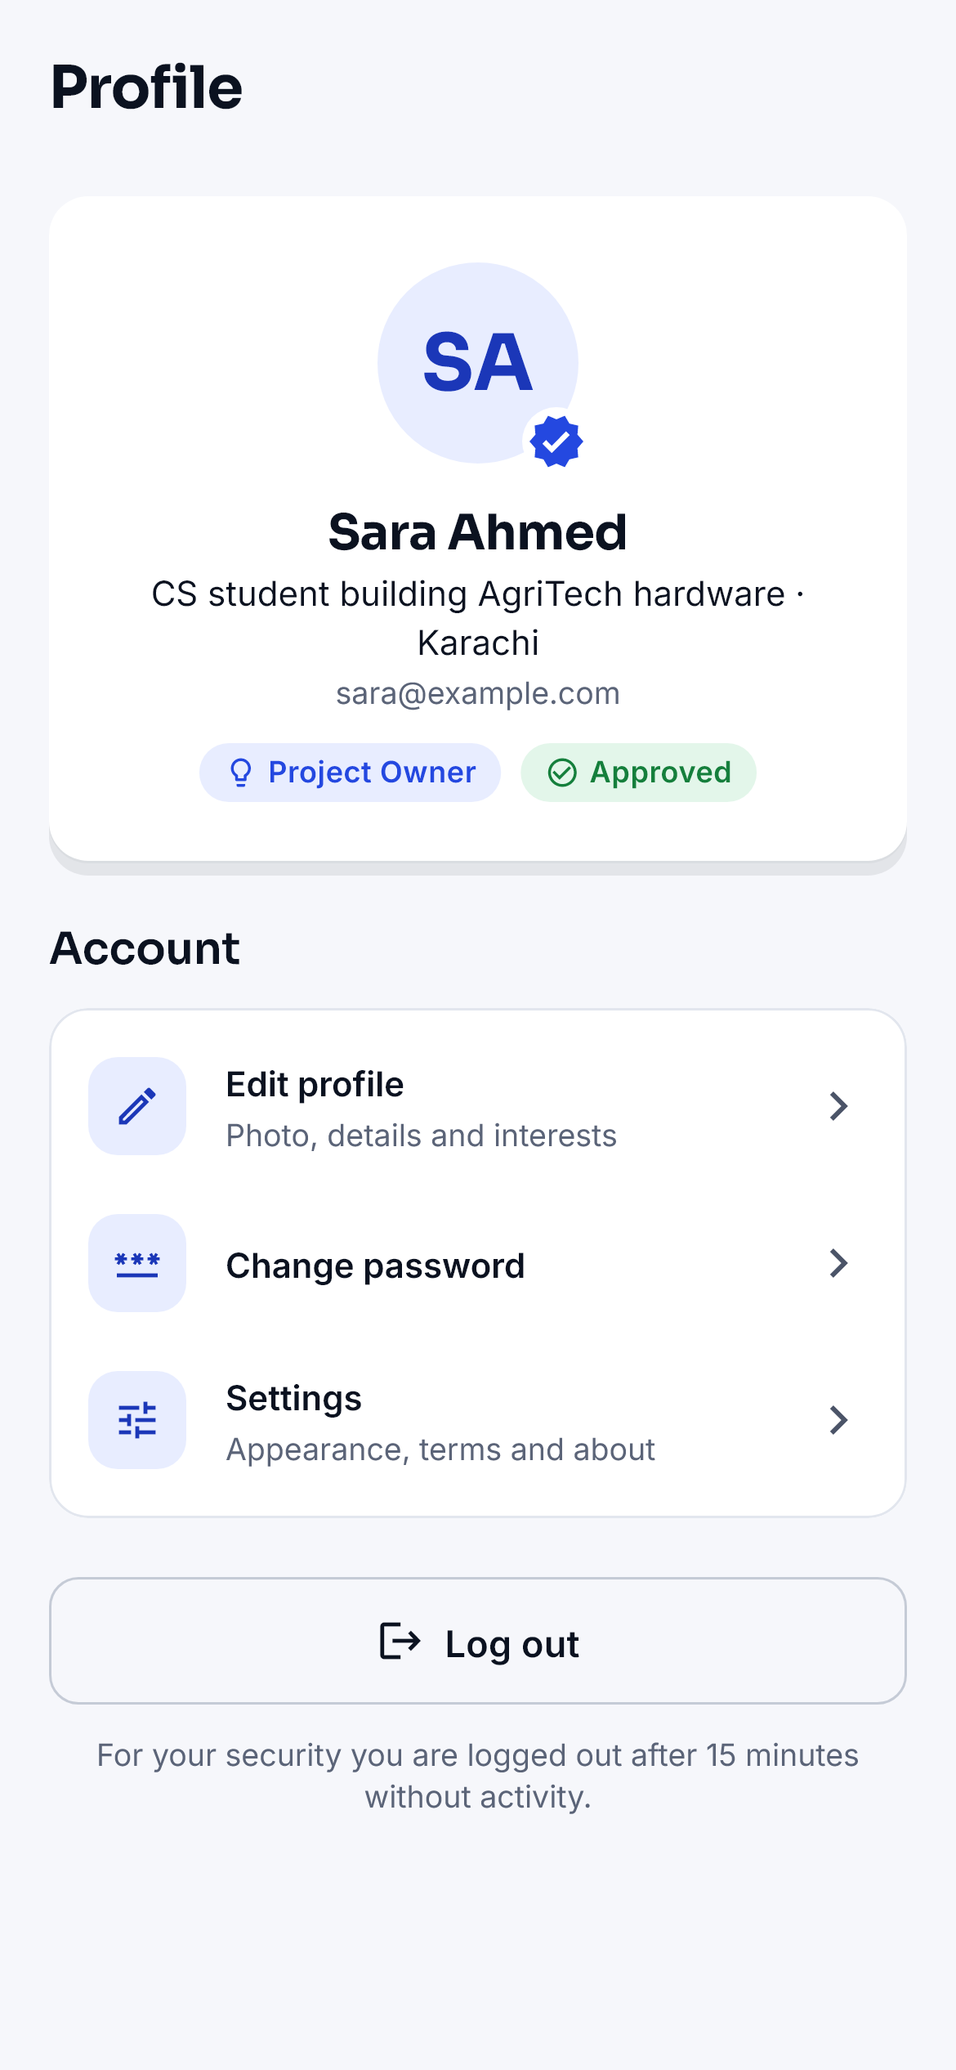
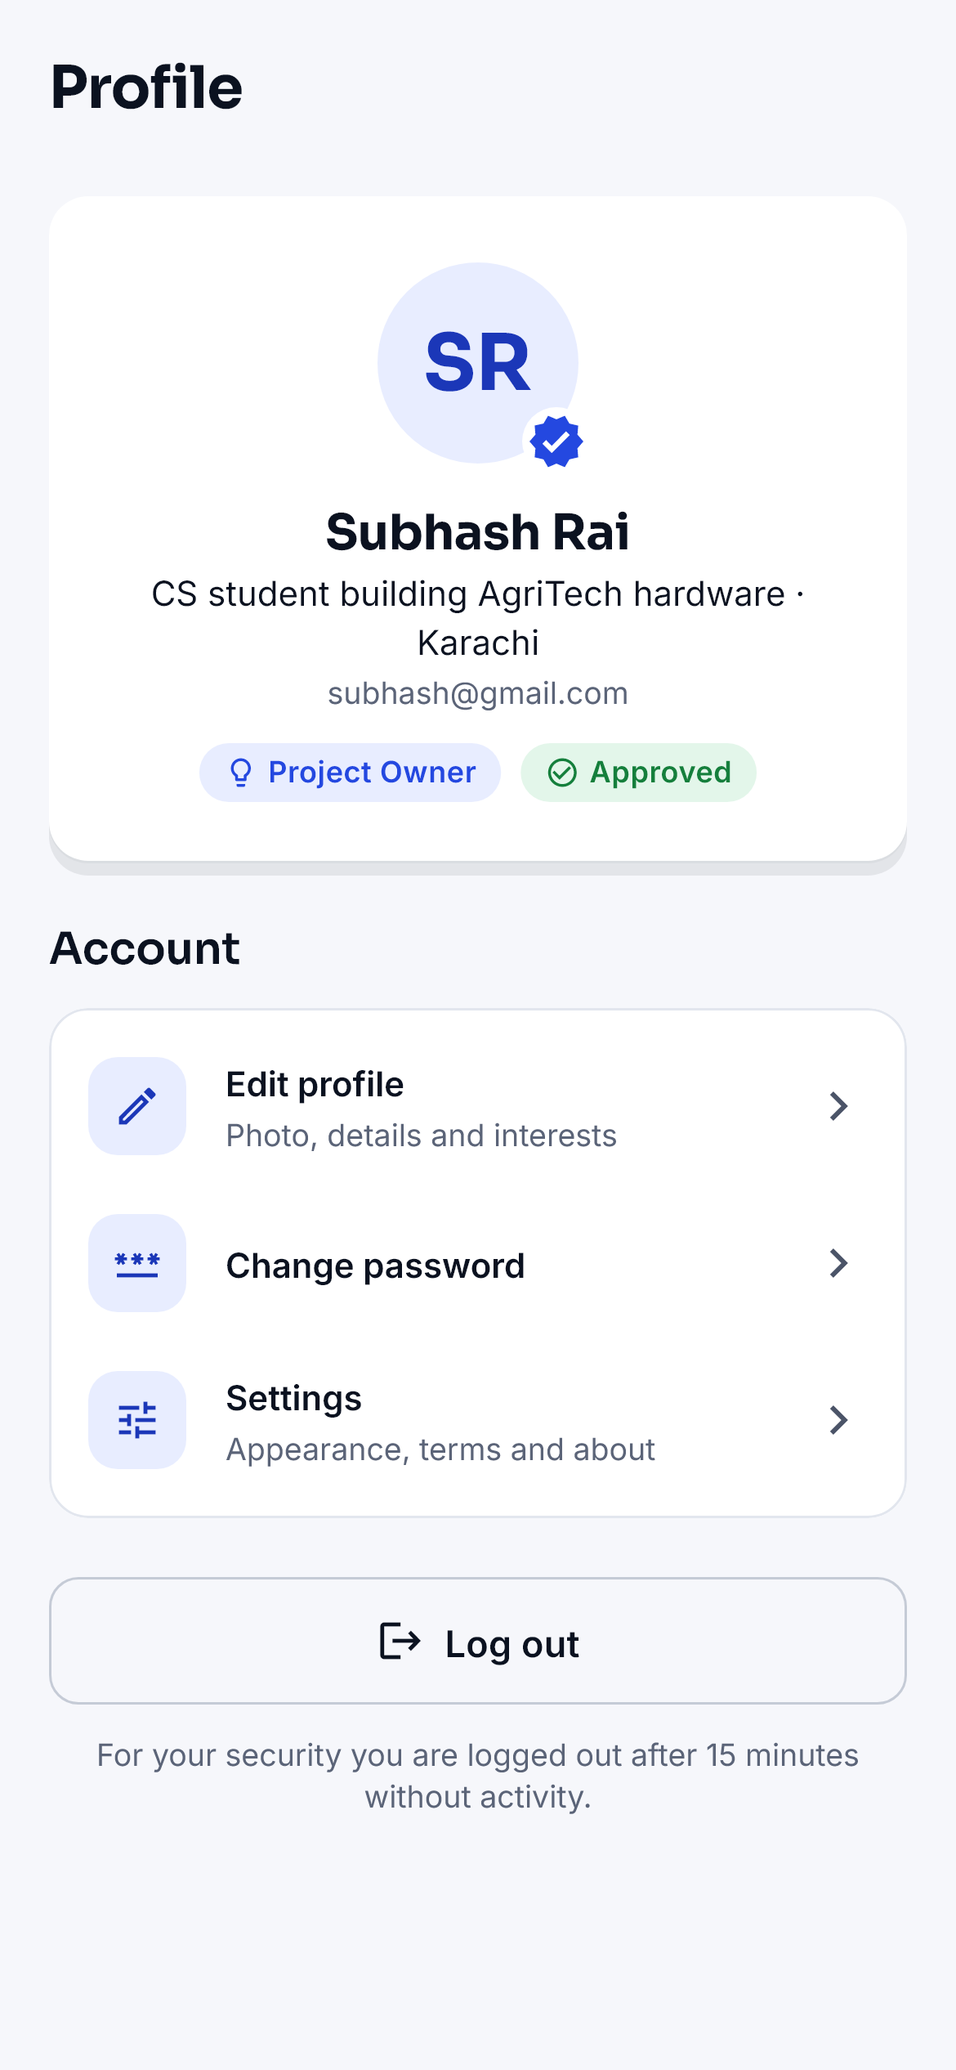
Screenshots with real details, admin portal screenshots
- Mobile screenshots and golden images use Subhash Rai / subhash@gmail.com instead of example data
- Onboarding picture shows a neutral "Your profile" instead of a made-up person
- Admin dashboard screenshots (login, overview, account and listing reviews with an item open,
  users, user detail, audit log, change password) in docs/screenshots/admin
- admin/tools/screenshots: a mock API in the backend's response shapes and a Chrome script,
  so the admin screenshots can be regenerated without touching the real database

Changed region(s): [[0.3385, 0.312, 0.6462, 0.3432], [0.3385, 0.2496, 0.6462, 0.2808], [0.4615, 0.156, 0.5538, 0.1872]]

diff --git a/admin/tools/screenshots/mock_api.js b/admin/tools/screenshots/mock_api.js
@@ -1,0 +1,145 @@
+// Mock of the Orwickle admin API (same response shapes as backend/src/modules/admin), for screenshots only.
+// node tools/screenshots/mock_api.js 4100
+const http = require('http');
+
+const port = Number(process.argv[2] || 4100);
+const day = (n, h = 10, m = 0) => new Date(Date.UTC(2026, 9, n, h - 5, m)).toISOString(); // Oct 2026, PKT
+
+const admin = { id: 'a0000000-0000-4000-8000-000000000001', email: 'subhash@gmail.com', role: 'admin', fullName: 'Subhash Rai', emailVerified: true, profileCompleted: true, approvalStatus: 'approved' };
+
+const people = [
+  { id: 'u1', role: 'owner', fullName: 'Ayesha Khan', email: 'ayesha.khan@gmail.com', reviewStatus: 'approved', at: day(12) },
+  { id: 'u2', role: 'owner', fullName: 'Hamza Ali', email: 'hamza.ali@gmail.com', reviewStatus: 'pending', at: day(29, 14) },
+  { id: 'u3', role: 'investor', fullName: 'Bilal Ahmed', email: 'bilal.ahmed@gmail.com', reviewStatus: 'pending', at: day(30, 11) },
+  { id: 'u4', role: 'investor', fullName: 'Fatima Noor', email: 'fatima.noor@gmail.com', reviewStatus: 'approved', at: day(18) },
+  { id: 'u5', role: 'buyer', fullName: 'Usman Tariq', email: 'usman.tariq@gmail.com', reviewStatus: 'approved', at: day(20) },
+  { id: 'u6', role: 'buyer', fullName: 'Zainab Hussain', email: 'zainab.hussain@gmail.com', reviewStatus: 'needs_evidence', at: day(26) },
+  { id: 'u7', role: 'owner', fullName: 'Daniyal Akram', email: 'daniyal.akram@gmail.com', reviewStatus: 'approved', at: day(15) },
+  { id: 'u8', role: 'investor', fullName: 'Maryam Shah', email: 'maryam.shah@gmail.com', reviewStatus: 'rejected', at: day(22), status: 'suspended' },
+];
+
+const listUser = p => ({
+  id: p.id, email: p.email, role: p.role, fullName: p.fullName, status: p.status || 'active', reviewStatus: p.reviewStatus,
+  emailVerified: true, locked: false, isSample: false, registeredAt: p.at,
+});
+
+const ownerDetails = {
+  isStudent: true, university: 'SZABIST Karachi', degreeProgram: 'BS Computer Science',
+  skills: ['Flutter', 'Node.js', 'PostgreSQL', 'IoT'], githubUrl: 'https://github.com/hamzaali', portfolioUrl: 'https://hamzaali.dev',
+};
+
+const profileOf = p => {
+  const base = {
+    role: p.role, email: p.email, fullName: p.fullName, avatarUrl: null, phone: '03001234567',
+    reviewStatus: p.reviewStatus, reviewNote: p.reviewStatus === 'needs_evidence' ? 'Please upload a clearer photo of your university ID.' : null,
+    completedDealCount: 0, completed: true, isSample: false, documents: [],
+  };
+  if (p.role === 'owner') {
+    return { ...base, headline: 'CS student building AgriTech hardware', bio: 'Final-year student at SZABIST. I build low-cost IoT devices and the apps that run them.', city: 'Karachi', linkedinUrl: 'https://www.linkedin.com/in/hamza-ali', websiteUrl: null, details: ownerDetails };
+  }
+  if (p.role === 'investor') {
+    return { ...base, headline: null, bio: null, city: 'Lahore', linkedinUrl: 'https://www.linkedin.com/in/bilal-ahmed', websiteUrl: null, details: {
+      investorType: 'angel', cnicNumber: '3520212345671', companyName: null, companyWebsite: null, companyEmail: null,
+      investmentExperience: '1_3', professionalAffiliation: 'Product manager at a Lahore fintech; member of an angel network',
+      investmentHistory: 'Invested in two student startups in 2025 (EdTech and logistics).', portfolioUrl: null,
+      minTicket: 500000, maxTicket: 2000000, interests: [{ id: 'c1', name: 'AgriTech' }, { id: 'c2', name: 'EdTech' }, { id: 'c3', name: 'FinTech' }],
+    } };
+  }
+  return { ...base, headline: null, bio: null, city: 'Islamabad', linkedinUrl: 'https://www.linkedin.com/in/zainab-hussain', websiteUrl: null, details: {
+    buyerType: 'small_business', affiliation: 'university', companyName: null, companyEmail: null,
+    interests: [{ id: 'c4', name: 'HealthTech' }, { id: 'c5', name: 'E-commerce' }],
+  } };
+};
+
+const listing = (id, owner, funding, title, desc, amount, category, stage, status, review, tech) => ({
+  listing: {
+    id, listingType: funding ? 'funding' : 'sale', category: { id: category, name: category }, title, shortDescription: desc,
+    techStack: tech, projectStage: stage, askingAmount: amount, currency: 'PKR', coverUrl: null, photos: [], status,
+    isSample: false, reviewStatus: review, reviewNote: null, publishedAt: day(30, 9), createdAt: day(27), updatedAt: day(30, 9),
+    owner: { id: owner.id, fullName: owner.fullName, avatarUrl: null },
+  },
+  confidential: funding
+    ? { fullDescription: 'Soil-moisture sensors report to a phone app over Wi-Fi; the app opens the valve only when the soil is dry. A pilot on two farms near Hyderabad saved about 40% of water.', problemStatement: 'Small farmers over-water because they cannot measure soil moisture.', businessModel: 'One-time kit sale plus a small yearly app subscription.', financialSummary: 'Kit cost PKR 9,000; pilot revenue PKR 120,000; break-even at 400 kits.', ipOwnershipNotes: 'Code and hardware design owned by the founder.', equityOfferedPercent: 10, transferDetails: null }
+    : { fullDescription: 'Web and mobile booking system for small clinics with reminders by SMS and patient history.', problemStatement: 'Clinics still book by phone and paper registers.', businessModel: 'One-time sale of the full source code.', financialSummary: 'Hosting costs about PKR 4,000 per month.', ipOwnershipNotes: 'Written entirely by the owner.', equityOfferedPercent: null, transferDetails: 'Full source code, database schema, deployment guide and one month of support.' },
+});
+
+const [hamza, , , , , , daniyal] = people;
+const pendingListings = [
+  listing('l1', hamza, true, 'Smart irrigation kit', 'Soil sensors and a mobile app that water crops only when they need it.', 1500000, 'AgriTech', 'prototype', 'published', 'pending', ['Flutter', 'ESP32', 'Node.js']),
+  listing('l2', daniyal, false, 'Clinic booking system', 'Appointments, reminders and patient records for small clinics.', 300000, 'HealthTech', 'launched', 'published', 'pending', ['React', 'Express', 'PostgreSQL']),
+];
+
+const audit = [
+  ['admin.listing_approved', 'listing', admin, { title: 'Campus wallet' }, day(31, 16, 40)],
+  ['admin.user_approved', 'user', admin, { email: 'fatima.noor@gmail.com' }, day(31, 16, 22)],
+  ['auth.login', 'user', admin, null, day(31, 16, 15)],
+  ['listing.published', 'listing', { email: 'hamza.ali@gmail.com', role: 'owner' }, { title: 'Smart irrigation kit' }, day(30, 9, 5)],
+  ['listing.created', 'listing', { email: 'hamza.ali@gmail.com', role: 'owner' }, { title: 'Smart irrigation kit' }, day(29, 18, 30)],
+  ['profile.document_uploaded', 'profile', { email: 'bilal.ahmed@gmail.com', role: 'investor' }, { kind: 'cnic_front' }, day(30, 11, 20)],
+  ['profile.updated', 'profile', { email: 'bilal.ahmed@gmail.com', role: 'investor' }, null, day(30, 11, 18)],
+  ['auth.email_verified', 'user', { email: 'bilal.ahmed@gmail.com', role: 'investor' }, null, day(30, 11, 4)],
+  ['auth.registered', 'user', { email: 'bilal.ahmed@gmail.com', role: 'investor' }, null, day(30, 11, 2)],
+  ['auth.login_failed', 'user', { email: 'usman.tariq@gmail.com', role: 'buyer' }, { remainingAttempts: 4 }, day(28, 21, 10)],
+  ['admin.user_suspended', 'user', admin, { reason: 'Fake investment documents' }, day(27, 12, 0)],
+  ['admin.created', 'user', admin, null, day(10, 9, 0)],
+].map(([action, entityType, actor, details, at], i) => ({
+  id: 120 - i, action, entityType, entityId: 'e' + i, details, ip: '39.40.12.' + (10 + i),
+  actor: actor ? { email: actor.email, role: actor.role } : null, at,
+}));
+
+function route(method, url) {
+  const u = new URL(url, 'http://x');
+  const p = u.pathname.replace(/^\/api/, '');
+  if (method === 'POST' && p === '/auth/login') return { accessToken: 'mock', refreshToken: 'mock', expiresIn: 900, user: admin };
+  if (method === 'POST' && (p === '/auth/refresh' || p === '/auth/change-password')) return { accessToken: 'mock', refreshToken: 'mock', expiresIn: 900, user: admin };
+  if (method === 'POST' && p === '/auth/logout') return null;
+  if (p === '/admin/stats') return {
+    users: { owners: 3, investors: 3, buyers: 2, approved: 4, pending: 2, notApproved: 2, unverifiedEmail: 1, newToday: 1, locked: 0, suspended: 1, samples: 0 },
+    listings: { live: 6, pending: 2, drafts: 3, closed: 1, funding: 7, sale: 5 },
+  };
+  if (p === '/admin/users') {
+    let list = people;
+    for (const k of ['role', 'status']) if (u.searchParams.get(k)) list = list.filter(x => (x[k] || 'active') === u.searchParams.get(k));
+    if (u.searchParams.get('review')) list = list.filter(x => x.reviewStatus === u.searchParams.get('review'));
+    return { users: list.map(listUser) };
+  }
+  if (p.startsWith('/admin/users/')) {
+    const person = people.find(x => x.id === p.split('/')[3]) || hamza;
+    return {
+      user: { id: person.id, email: person.email, role: person.role, status: person.status || 'active', emailVerified: true, locked: false, registeredAt: person.at },
+      profile: profileOf(person),
+      listings: person.role === 'owner' ? pendingListings.filter(l => l.listing.owner.id === person.id).map(l => l.listing) : [],
+      decisions: person.reviewStatus === 'pending' ? [] : [{ decision: 'approve', reason: null, checklist: {}, reviewer: 'Subhash Rai', at: day(25, 15) }],
+    };
+  }
+  if (p === '/admin/reviews/users') {
+    const status = u.searchParams.get('status') || 'pending';
+    return { users: people.filter(x => x.reviewStatus === status).map(x => ({ id: x.id, registeredAt: x.at, ...profileOf(x) })) };
+  }
+  if (p === '/admin/reviews/listings') {
+    const status = u.searchParams.get('status') || 'pending';
+    return { listings: status === 'pending' ? pendingListings : [] };
+  }
+  if (p === '/admin/audit') {
+    const group = u.searchParams.get('action');
+    return { entries: group ? audit.filter(a => a.action.startsWith(group)) : audit };
+  }
+  return undefined;
+}
+
+http.createServer((req, res) => {
+  const cors = {
+    'Access-Control-Allow-Origin': '*',
+    'Access-Control-Allow-Headers': 'Content-Type, Authorization',
+    'Access-Control-Allow-Methods': 'GET, POST, PUT, DELETE, OPTIONS',
+  };
+  if (req.method === 'OPTIONS') { res.writeHead(204, cors); return res.end(); }
+  req.resume();
+  req.on('end', () => {
+    const body = route(req.method, req.url);
+    if (body === undefined) { res.writeHead(404, { ...cors, 'Content-Type': 'application/json' }); return res.end(JSON.stringify({ error: { code: 'NOT_FOUND', message: 'Not found' } })); }
+    if (body === null) { res.writeHead(204, cors); return res.end(); }
+    res.writeHead(200, { ...cors, 'Content-Type': 'application/json' });
+    res.end(JSON.stringify(body));
+  });
+}).listen(port, () => console.log('admin mock on ' + port));

diff --git a/admin/tools/screenshots/take_screenshots.js b/admin/tools/screenshots/take_screenshots.js
@@ -1,0 +1,94 @@
+// Desktop screenshots of the admin dashboard via the Chrome DevTools protocol.
+// node tools/screenshots/take_screenshots.js ../docs/screenshots/admin http://localhost:5174
+const { spawn } = require('child_process');
+const fs = require('fs');
+const path = require('path');
+
+const [outDir, base = 'http://localhost:5174'] = process.argv.slice(2);
+fs.mkdirSync(outDir, { recursive: true });
+const chrome = 'C:/Program Files/Google/Chrome/Application/chrome.exe';
+const port = 9334;
+const profile = path.join(require('os').tmpdir(), 'orwickle-admin-shots-' + Date.now());
+const proc = spawn(chrome, ['--headless=new', `--remote-debugging-port=${port}`, `--user-data-dir=${profile}`, '--hide-scrollbars', 'about:blank'], { stdio: 'ignore' });
+const sleep = ms => new Promise(r => setTimeout(r, ms));
+
+const WIDTH = 1440, HEIGHT = 900;
+const session = JSON.stringify({
+  accessToken: 'mock', refreshToken: 'mock', refreshedAt: Date.now(),
+  user: { id: 'a0000000-0000-4000-8000-000000000001', email: 'subhash@gmail.com', role: 'admin', fullName: 'Subhash Rai', emailVerified: true, profileCompleted: true, approvalStatus: 'approved' },
+});
+
+(async () => {
+  let wsUrl;
+  for (let i = 0; i < 50 && !wsUrl; i++) {
+    try { wsUrl = (await (await fetch(`http://127.0.0.1:${port}/json`)).json()).find(t => t.type === 'page')?.webSocketDebuggerUrl; } catch {}
+    if (!wsUrl) await sleep(200);
+  }
+  const ws = new WebSocket(wsUrl);
+  await new Promise(r => ws.addEventListener('open', r, { once: true }));
+  let id = 0; const pending = new Map();
+  ws.addEventListener('message', e => { const m = JSON.parse(e.data); if (m.id && pending.has(m.id)) { pending.get(m.id)(m); pending.delete(m.id); } });
+  const send = (method, params = {}) => new Promise(r => { const n = ++id; pending.set(n, r); ws.send(JSON.stringify({ id: n, method, params })); });
+  const evaluate = expression => send('Runtime.evaluate', { expression, awaitPromise: true });
+
+  await send('Page.enable');
+  await send('Runtime.enable');
+  await send('Emulation.setDeviceMetricsOverride', { width: WIDTH, height: HEIGHT, deviceScaleFactor: 2, mobile: false });
+
+  async function shot(name, { full = true } = {}) {
+    let height = HEIGHT;
+    if (full) {
+      const r = await evaluate('Math.max(document.documentElement.scrollHeight, document.body.scrollHeight)');
+      height = Math.min(Math.max(r.result.result.value || HEIGHT, HEIGHT), 3000);
+      await send('Emulation.setDeviceMetricsOverride', { width: WIDTH, height, deviceScaleFactor: 2, mobile: false });
+      await sleep(600);
+    }
+    const res = await send('Page.captureScreenshot', { format: 'png' });
+    fs.writeFileSync(path.join(outDir, `${name}.png`), Buffer.from(res.result.data, 'base64'));
+    await send('Emulation.setDeviceMetricsOverride', { width: WIDTH, height: HEIGHT, deviceScaleFactor: 2, mobile: false });
+    console.log('saved', name, height);
+  }
+
+  // 1. login page, with the admin's email typed in
+  await send('Page.navigate', { url: base + '/' });
+  await sleep(4000);
+  await evaluate(`(() => {
+    const input = document.querySelector('input[type=email], input[name=email], input');
+    if (!input) return;
+    const setter = Object.getOwnPropertyDescriptor(HTMLInputElement.prototype, 'value').set;
+    setter.call(input, 'subhash@gmail.com');
+    input.dispatchEvent(new Event('input', { bubbles: true }));
+  })()`);
+  await sleep(500);
+  await shot('01_admin_login', { full: false });
+
+  // 2. signed in as Subhash Rai
+  await evaluate(`sessionStorage.setItem('orwickle-admin-session', ${JSON.stringify(session)})`);
+  const pages = [
+    ['02_admin_overview', '/'],
+    ['03_admin_account_reviews', '/reviews/accounts'],
+    ['04_admin_listing_reviews', '/reviews/listings'],
+    ['05_admin_users', '/users'],
+    ['06_admin_user_detail', '/users/u2'],
+    ['07_admin_audit_log', '/audit'],
+    ['08_admin_change_password', '/password'],
+  ];
+  for (const [name, route] of pages) {
+    await send('Page.navigate', { url: base + route });
+    await sleep(3500);
+    await shot(name);
+    // the review queues again with the first entry opened
+    const open = { '03_admin_account_reviews': 'Hamza Ali', '04_admin_listing_reviews': 'Smart irrigation kit' }[name];
+    if (open) {
+      await evaluate(`(() => {
+        const el = [...document.querySelectorAll('*')].find(e => e.children.length === 0 && e.textContent.trim() === ${JSON.stringify(open)});
+        let target = el;
+        while (target && !(target.tagName === 'BUTTON' || target.tagName === 'A' || target.getAttribute('role') === 'button')) target = target.parentElement;
+        (target || el)?.click();
+      })()`);
+      await sleep(1500);
+      await shot(name + '_open');
+    }
+  }
+  ws.close(); proc.kill(); process.exit(0);
+})().catch(e => { console.error(e); proc.kill(); process.exit(1); });

diff --git a/mobile/tool/screenshots/screenshots_test.dart b/mobile/tool/screenshots/screenshots_test.dart
@@ -58,7 +58,7 @@ Listing _listing(String id, bool funding, String title, String status, String re
       coverUrl: null,
       status: status,
       reviewStatus: review,
-      ownerName: 'Sara Ahmed',
+      ownerName: 'Subhash Rai',
     );
 
 final _mine = [
@@ -100,12 +100,12 @@ class _Profiles extends ProfileApi {
   @override
   Future<MyProfile> getMine() async => const MyProfile(
     role: 'owner',
-    email: 'sara@example.com',
-    fullName: 'Sara Ahmed',
+    email: 'subhash@gmail.com',
+    fullName: 'Subhash Rai',
     headline: 'CS student building AgriTech hardware',
     city: 'Karachi',
     bio: 'I build simple, low-cost devices for small farms.',
-    linkedinUrl: 'https://www.linkedin.com/in/sara',
+    linkedinUrl: 'https://www.linkedin.com/in/subhash-rai',
     completed: true,
     reviewStatus: 'approved',
     details: {'isStudent': true, 'university': 'SZABIST', 'degreeProgram': 'BS Computer Science'},
@@ -124,9 +124,9 @@ class _RoleApi extends FakeAuthApi {
     expiresIn: const Duration(minutes: 15),
     user: AppUser(
       id: 'u',
-      email: 'sara@example.com',
+      email: 'subhash@gmail.com',
       role: role,
-      fullName: role == 'owner' ? 'Sara Ahmed' : 'Ali Khan',
+      fullName: 'Subhash Rai',
       emailVerified: true,
       profileCompleted: true,
       approvalStatus: 'approved',
@@ -187,13 +187,13 @@ final _shots = <_Shot>[
     '06_register',
     const RegisterScreen(role: UserRole.owner),
     before: (tester) async {
-      await tester.enterText(find.widgetWithText(TextFormField, 'Full name'), 'Sara Ahmed');
-      await tester.enterText(find.widgetWithText(TextFormField, 'Email'), 'sara@example.com');
+      await tester.enterText(find.widgetWithText(TextFormField, 'Full name'), 'Subhash Rai');
+      await tester.enterText(find.widgetWithText(TextFormField, 'Email'), 'subhash@gmail.com');
       await tester.enterText(find.widgetWithText(TextFormField, 'Password'), 'Orwick@2026!');
       await _settle(tester);
     },
   ),
-  const _Shot('07_verify_email', VerifyEmailScreen(email: 'sara@example.com')),
+  const _Shot('07_verify_email', VerifyEmailScreen(email: 'subhash@gmail.com')),
   const _Shot('08_login', LoginScreen()),
   const _Shot('09_forgot_password', ForgotPasswordScreen()),
   const _Shot('10_profile_setup', ProfileEditScreen(setup: true)),
@@ -249,7 +249,7 @@ void main() {
         addTearDown(tester.platformDispatcher.clearAccessibilityFeaturesTestValue);
 
         final session = SessionController(api: _RoleApi(shot.role), storage: MemoryTokenStorage());
-        await session.login(email: 'sara@example.com', password: 'x');
+        await session.login(email: 'subhash@gmail.com', password: 'x');
         final themes = ThemeController();
         await themes.setMode(dark ? ThemeMode.dark : ThemeMode.light);
 

diff --git a/mobile/test/goldens/screens_golden_test.dart b/mobile/test/goldens/screens_golden_test.dart
@@ -41,7 +41,7 @@ Listing _listing(String id, bool funding, String title, String status, String re
   coverUrl: null,
   status: status,
   reviewStatus: review,
-  ownerName: 'Sara Ahmed',
+  ownerName: 'Subhash Rai',
 );
 
 final _mine = [
@@ -72,9 +72,9 @@ class _OwnerApi extends FakeAuthApi {
     expiresIn: const Duration(minutes: 15),
     user: const AppUser(
       id: 'u',
-      email: 'sara@example.com',
+      email: 'subhash@gmail.com',
       role: 'owner',
-      fullName: 'Sara Ahmed',
+      fullName: 'Subhash Rai',
       emailVerified: true,
       profileCompleted: true,
       approvalStatus: 'approved',
@@ -84,7 +84,7 @@ class _OwnerApi extends FakeAuthApi {
 
 Future<(Widget Function(ThemeData), SessionController)> _app(Widget screen) async {
   final session = SessionController(api: _OwnerApi(), storage: MemoryTokenStorage());
-  await session.login(email: 'sara@example.com', password: 'x');
+  await session.login(email: 'subhash@gmail.com', password: 'x');
   return (
     (ThemeData theme) => MultiProvider(
       providers: [

diff --git a/mobile/lib/features/auth/screens/onboarding_screen.dart b/mobile/lib/features/auth/screens/onboarding_screen.dart
@@ -311,13 +311,13 @@ class _VerifyArt extends StatelessWidget {
         children: [
           Row(
             children: [
-              const AppAvatar(initials: 'SA', size: 40, verified: true),
+              const AppAvatar(initials: 'You', size: 40, verified: true),
               const SizedBox(width: Gaps.md),
               Expanded(
                 child: Column(
                   crossAxisAlignment: CrossAxisAlignment.start,
                   children: [
-                    Text('Sara Ahmed', style: theme.textTheme.titleSmall),
+                    Text('Your profile', style: theme.textTheme.titleSmall),
                     Text('BS Computer Science', style: theme.textTheme.bodySmall),
                   ],
                 ),

diff --git a/admin/tools/screenshots/README.md b/admin/tools/screenshots/README.md
@@ -1,0 +1,14 @@
+# Admin dashboard screenshots
+
+Desktop screenshots (1440 × 900 at 2×) of every admin page, on realistic sample data.
+Nothing touches the real backend or database: a small mock API answers in the same shapes.
+
+Run from `admin/` (Google Chrome must be installed), each in its own terminal:
+
+```
+node tools/screenshots/mock_api.js 4100
+set VITE_API_BASE_URL=http://localhost:4100/api&& npx vite --port 5174
+node tools/screenshots/take_screenshots.js ../docs/screenshots/admin http://localhost:5174
+```
+
+Images go to `docs/screenshots/admin`. Stop the mock and the extra dev server afterwards.
